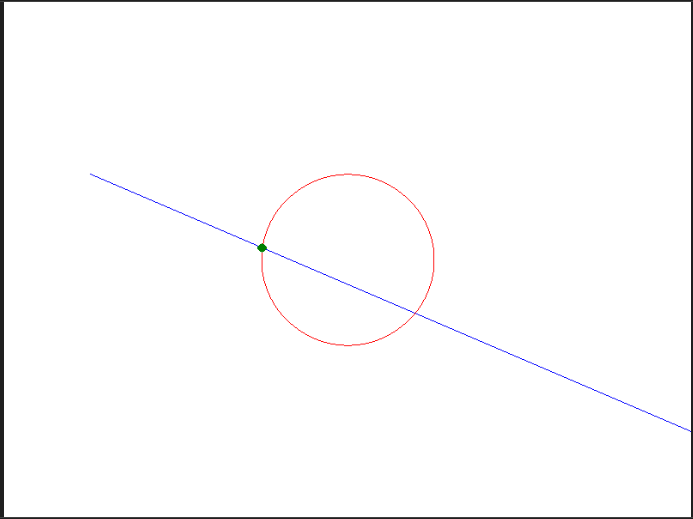
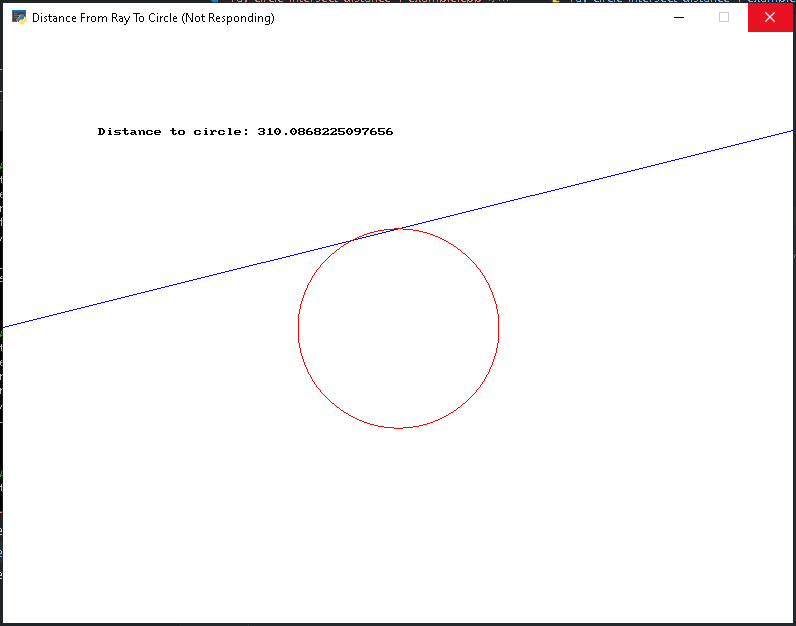
added usage examples for ray_cricle_intersection_distance function

diff --git a/public/usage-examples/geometry/ray_circle_intersect_distance-1-example-oop.cs b/public/usage-examples/geometry/ray_circle_intersect_distance-1-example-oop.cs
@@ -1,58 +1,50 @@
 using SplashKitSDK;
 
-public class RayCircleIntersectDistanceExample
+namespace RayCircleIntersectDistanceExample
 {
-    public void Run()
+    public class Program
     {
-        // opens a new 800 * 600 window
-        Window window = new Window("Ray-Circle Intersect Distance", 800, 600);
-
-        // sets the starting point of the ray on the left side of the screen
-        Point2D rayOrigin = SplashKit.PointAt(100, 200);
-
-        // creates a direction vector pointing toward the right and slightly down
-        Vector2D rayDirection = SplashKit.UnitVector(SplashKit.VectorTo(SplashKit.PointAt(700, 300)));
-
-        // creates a red circle at the center with radius 100
-        Circle circleObj = new Circle()
+        public static void Main()
         {
-            Center = SplashKit.PointAt(400, 300),
-            Radius = 100
-        };
+            // opens a new 800 * 600 window
+            Window window = new Window("Distance From Ray To Circle", 800, 600);
 
-        // runs the loop until the user requests to quit
-        while (!SplashKit.QuitRequested())
-        {
-            // fills the background with white
-            SplashKit.ClearScreen(Color.White);
+            // sets the starting point of the ray on the left side of the screen
+            Point2D rayOrigin = SplashKit.PointAt(0, 300);
 
-            // computes the laser's end point by scaling the direction vector
-            Point2D rayEnd = SplashKit.PointOffsetBy(rayOrigin, SplashKit.VectorMultiply(rayDirection, 800));
+            // sets the ending point of the ray on the right side of the screen
+            Point2D rayEnd = SplashKit.PointAt(800, 100);
 
-            // draws the laser beam as a blue line
-            SplashKit.DrawLine(Color.Blue, rayOrigin, rayEnd);
+            // creates a direction vector pointing toward the right and slightly up
+            Vector2D rayDirection = SplashKit.UnitVector(SplashKit.VectorTo(rayEnd));
 
-            // draws the circle target in red
-            SplashKit.DrawCircle(Color.Red, circleObj.Center.X, circleObj.Center.Y, circleObj.Radius);
-
-            // checks for collision between the ray and the circle
-            float distance = SplashKit.RayCircleIntersectDistance(rayOrigin, rayDirection, circleObj);
-
-            // if collision occurs, calculate and show the hit point with a green dot
-            if (distance > 0)
+            // creates a red circle at the center with radius 100
+            Circle circleObj = new Circle()
             {
-                Vector2D scaled = SplashKit.VectorMultiply(rayDirection, distance);
-                Point2D hitPoint = SplashKit.PointOffsetBy(rayOrigin, scaled);
-                SplashKit.FillCircle(Color.Green, hitPoint.X, hitPoint.Y, 5);
+                Center = SplashKit.PointAt(400, 300),
+                Radius = 100
+            };
+
+            // runs the loop until the user requests to quit
+            while (!SplashKit.QuitRequested())
+            {
+                // fills the background with white
+                SplashKit.ClearScreen(Color.White);
+
+                // draws the laser beam as a blue line
+                SplashKit.DrawLine(Color.Blue, rayOrigin, rayEnd);
+
+                // draws the circle target in red
+                SplashKit.DrawCircle(Color.Red, circleObj);
+
+                // checks for collision between the ray and the circle
+                float distance = SplashKit.RayCircleIntersectDistance(rayOrigin, rayDirection, circleObj);
+
+                // displays the distance to the circle
+                SplashKit.DrawText($"Distance to circle: {distance}", Color.Black, 100, 100);
+
+                SplashKit.RefreshScreen(60);
             }
-
-            // refreshes the screen at 60 FPS
-            SplashKit.RefreshScreen(60);
         }
-    }
-
-    public static void Main()
-    {
-        new RayCircleApp().Run();
     }
 }

diff --git a/public/usage-examples/geometry/ray_circle_intersect_distance-1-example.cpp b/public/usage-examples/geometry/ray_circle_intersect_distance-1-example.cpp
@@ -3,46 +3,37 @@
 int main()
 {
     // opens a new 800 * 600 window
-    open_window("Ray-Circle Intersect Distance", 800, 600);
+    open_window("Distance From Ray To Circle", 800, 600);
 
-    // sets the starting point of the ray (laser) on the left side of the screen
-    point_2d ray_origin = point_at(100, 200);
+    // sets the starting point of the ray on the left side of the screen
+    point_2d ray_origin = point_at(0, 300);
 
-    // creates a direction vector pointing horizontally across the screen
-    vector_2d ray_direction = unit_vector(vector_to(point_at(700, 300)));
+    // sets the ending point of the ray on the right side of the screen
+    point_2d ray_end = point_at(800, 100);
+
+    // creates a direction vector pointing toward the right and slightly up
+    vector_2d ray_direction = unit_vector(vector_to(ray_end));
 
     // creates a circle at the center of the window with a radius of 50
-    circle circle_obj;
-    circle_obj.center = point_at(400, 300);
-    circle_obj.radius = 100;
+    circle circle_obj = circle_at(point_at(400, 300), 100);
 
-    // runs the simulation loop until the user closes the window
     while (!quit_requested())
     {
         // clears the screen and fills it with white
-        clear_screen(COLOR_WHITE);
-
-        // calculates the end point of the laser beam
-        point_2d ray_end = point_offset_by(ray_origin, vector_multiply(ray_direction, 800));
+        clear_screen();
 
         // draws a blue line representing the laser beam from left to right
         draw_line(COLOR_BLUE, ray_origin, ray_end);
 
         // draws the target circle in red at its specified location
-        draw_circle(COLOR_RED, circle_obj.center.x, circle_obj.center.y, circle_obj.radius);
+        draw_circle(COLOR_RED, circle_obj);
 
         // checks if the ray intersects the circle and gets the distance to the hit point
         float distance = ray_circle_intersect_distance(ray_origin, ray_direction, circle_obj);
 
-        // if the ray actually hits the circle, calculate the hit point and mark it with a green dot
-        if (distance > 0)
-        {
-            vector_2d scaled_direction = vector_multiply(ray_direction, distance);
-            point_2d hit_point = point_offset_by(ray_origin, scaled_direction);
-            fill_circle(COLOR_GREEN, hit_point.x, hit_point.y, 5);
-        }
+        // displays the distance to the circle
+        draw_text("Distance to circle: " + std::to_string(distance), COLOR_BLACK, 100, 100);
 
-        // updates the display at 60 frames per second
         refresh_screen(60);
     }
 

diff --git a/public/usage-examples/geometry/ray_circle_intersect_distance-1-example.py b/public/usage-examples/geometry/ray_circle_intersect_distance-1-example.py
@@ -1,40 +1,37 @@
 from splashkit import *
 
 # opens a new 800 * 600 window
-open_window("Ray-Circle Intersect Distance", 800, 600)
+open_window("Distance From Ray To Circle", 800, 600)
 
 # sets the starting point of the ray on the left side of the screen
-ray_origin = point_at(100, 200)
+ray_origin = point_at(0, 300)
 
-# creates a direction vector pointing to the right and slightly downward
-ray_direction = unit_vector(vector_to(point_at(700, 300)))
+# sets the ending point of the ray on the right side of the screen
+ray_end = point_at(800, 100)
+
+# creates a direction vector pointing toward the right and slightly up
+ray_direction = unit_vector(vector_to_point(ray_end))
 
 # defines a circle at the center of the screen with radius 100
 circle_center = point_at(400, 300)
 circle_radius = 100
-circle_obj = make_circle(circle_center, circle_radius)
+circle_obj = circle_at(circle_center, circle_radius)
 
 # runs until the user quits the program
 while not quit_requested():
     # fills the screen with white
-    clear_screen(Color.White)
-
-    # calculates the ray's end point for drawing
-    ray_end = point_offset_by(ray_origin, vector_multiply(ray_direction, 800))
+    clear_screen(color_white())
 
     # draws the ray as a blue line
-    draw_line(Color.Blue, ray_origin, ray_end)
+    draw_line_point_to_point(color_blue(), ray_origin, ray_end)
 
     # draws the red target circle
-    draw_circle(Color.Red, circle_center.x, circle_center.y, circle_radius)
+    draw_circle_record(color_red(), circle_obj)
 
     # calculates intersection distance between ray and circle
     distance = ray_circle_intersect_distance(ray_origin, ray_direction, circle_obj)
 
-    # if the ray intersects, calculate and draw the impact point as a green dot
-    if distance > 0:
-        hit_point = point_offset_by(ray_origin, vector_multiply(ray_direction, distance))
-        fill_circle(Color.Green, hit_point.x, hit_point.y, 5)
+    # displays the distance to the circle
+    draw_text_no_font_no_size(f"Distance to circle: {distance}", color_black(), 100, 100)
 
-    # refreshes the screen at 60 FPS
-    refresh_screen(60)
+    refresh_screen()

diff --git a/public/usage-examples/geometry/ray_circle_intersect_distance-1-example-top-level.cs b/public/usage-examples/geometry/ray_circle_intersect_distance-1-example-top-level.cs
@@ -1,13 +1,17 @@
+using SplashKitSDK;
 using static SplashKitSDK.SplashKit;
 
 // opens a new 800 * 600 window
-Window window = new Window("Ray-Circle Intersect Distance", 800, 600);
+Window window = new Window("Distance From Ray To Circle", 800, 600);
 
 // sets the starting point of the ray on the left side of the screen
-Point2D rayOrigin = PointAt(100, 200);
+Point2D rayOrigin = PointAt(0, 300);
 
-// creates a direction vector pointing toward the right and slightly down
-Vector2D rayDirection = UnitVector(VectorTo(PointAt(700, 300)));
+// sets the ending point of the ray on the right side of the screen
+Point2D rayEnd = PointAt(800, 100);
+
+// creates a direction vector pointing toward the right and slightly up
+Vector2D rayDirection = UnitVector(VectorTo(rayEnd));
 
 // creates a red circle at the center with radius 100
 Circle circleObj = new Circle()
@@ -16,32 +20,21 @@ Circle circleObj = new Circle()
     Radius = 100
 };
 
-// keeps looping until the user closes the window
 while (!QuitRequested())
 {
-    // fills the background with white
-    ClearScreen(Color.White);
-
-    // calculates the laser end point
-    Point2D rayEnd = PointOffsetBy(rayOrigin, VectorMultiply(rayDirection, 800));
+    ClearScreen();
 
     // draws the laser beam in blue
     DrawLine(Color.Blue, rayOrigin, rayEnd);
 
     // draws the target circle in red
-    DrawCircle(Color.Red, circleObj.Center.X, circleObj.Center.Y, circleObj.Radius);
+    DrawCircle(Color.Red, circleObj);
 
     // checks for intersection and calculates distance
     float distance = RayCircleIntersectDistance(rayOrigin, rayDirection, circleObj);
 
-    // if hit detected, draws a green dot at the impact point
-    if (distance > 0)
-    {
-        Vector2D scaled = VectorMultiply(rayDirection, distance);
-        Point2D hitPoint = PointOffsetBy(rayOrigin, scaled);
-        FillCircle(Color.Green, hitPoint.X, hitPoint.Y, 5);
-    }
+    // displays the distance to the circle
+    DrawText($"Distance to circle: {distance}", Color.Black, 100, 100);
 
-    // updates the screen at 60 FPS
     RefreshScreen(60);
 }
